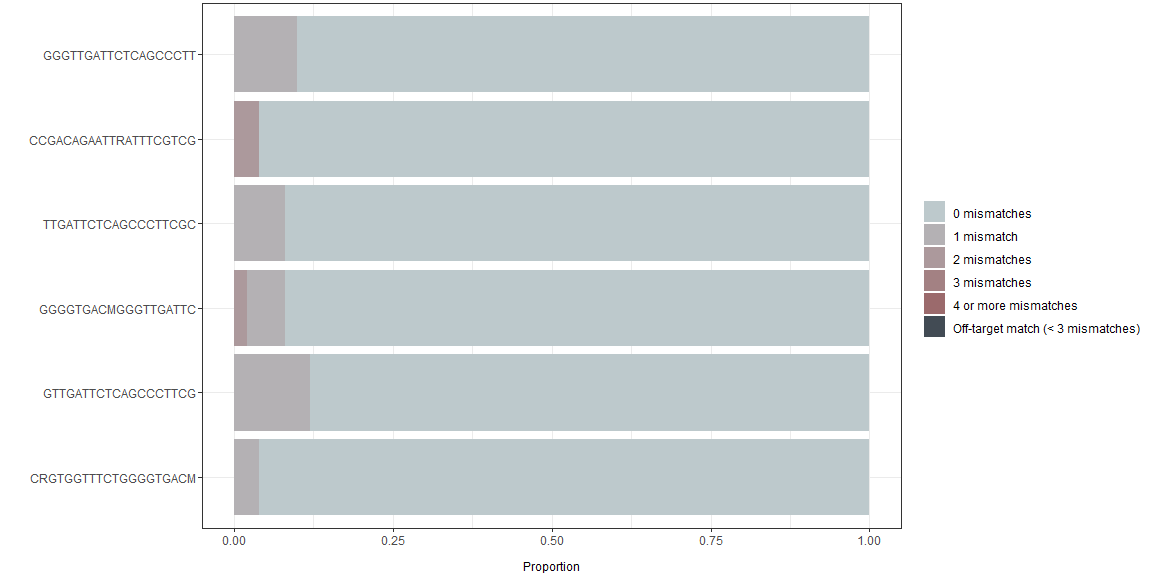
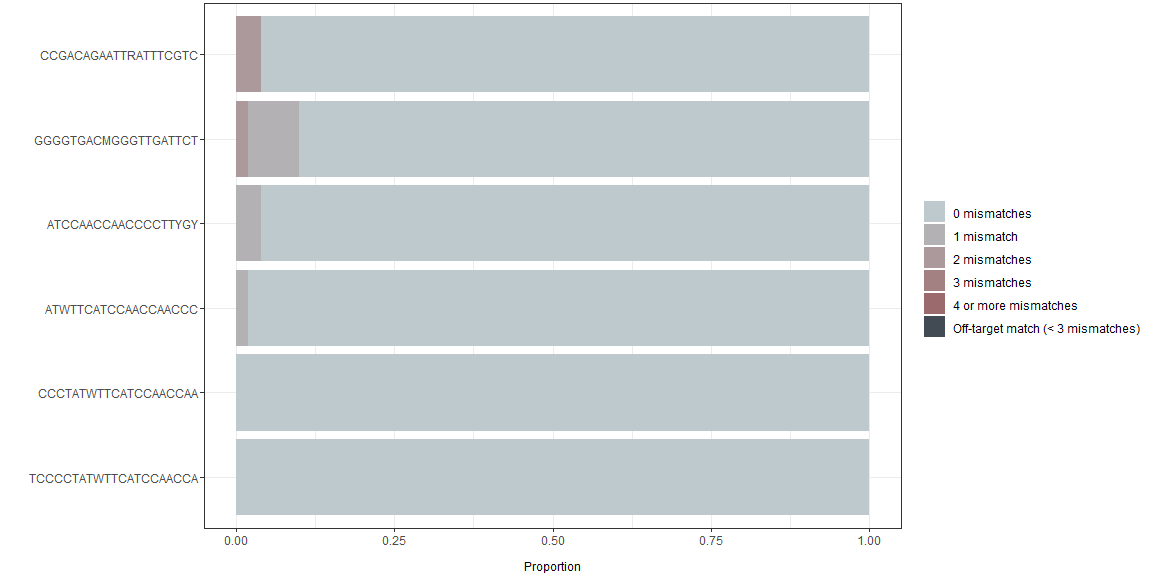
Updated installation info in readme

diff --git a/README.md b/README.md
@@ -17,9 +17,9 @@ for sequence variable viruses.
 To install rprimer, please use:
 
 ``` r
-if (!requireNamespace("BiocManager", quietly = TRUE))
-  install.packages("BiocManager")
-BiocManager::install("rprimer")
+if (!requireNamespace("devtools", quietly = TRUE))
+  install.packages("devtools")
+devtools::install_github("sofpn/rprimer")
 ```
 
 ``` r
@@ -48,8 +48,8 @@ interface). It is loaded by:
 ### Import alignment
 
 The first step is to import an alignment with target sequences of
-interest. This is done by using `readDNAMultipleAlignment()` from
-Biostrings.
+interest. This is done by using `readDNAMultipleAlignment()` from the
+Biostrings package.
 
 The file “example\_alignment.txt” contains an alignment of 50 hepatitis
 E virus sequences.
@@ -171,12 +171,12 @@ Results:
 
 | iupacSequence         | perfectMatch | idPerfectMatch | oneMismatch | idOneMismatch | twoMismatches | idTwoMismatches | threeMismatches | idThreeMismatches | fourOrMoreMismatches | idFourOrMoreMismatches | offTargetMatch | idOffTargetMatch |
 |:----------------------|-------------:|:---------------|------------:|:--------------|--------------:|:----------------|----------------:|:------------------|---------------------:|:-----------------------|---------------:|:-----------------|
-| GGGTTGATTCTCAGCCCTT   |         0.90 | AB073912….     |        0.10 | AB481228….    |          0.00 |                 |               0 |                   |                    0 |                        |              0 |                  |
-| CCGACAGAATTRATTTCGTCG |         0.96 | AB073912….     |        0.00 |               |          0.04 | MH410175….      |               0 |                   |                    0 |                        |              0 |                  |
-| TTGATTCTCAGCCCTTCGC   |         0.92 | AB073912….     |        0.08 | AB481228….    |          0.00 |                 |               0 |                   |                    0 |                        |              0 |                  |
-| GGGGTGACMGGGTTGATTC   |         0.92 | AB073912….     |        0.06 | BD378055….    |          0.02 | JQ953665.1      |               0 |                   |                    0 |                        |              0 |                  |
-| GTTGATTCTCAGCCCTTCG   |         0.88 | AB073912….     |        0.12 | AB481228….    |          0.00 |                 |               0 |                   |                    0 |                        |              0 |                  |
-| CRGTGGTTTCTGGGGTGACM  |         0.96 | AB073912….     |        0.04 | BD378055….    |          0.00 |                 |               0 |                   |                    0 |                        |              0 |                  |
+| CCGACAGAATTRATTTCGTC  |         0.96 | AB073912….     |        0.00 |               |          0.04 | MH410175….      |               0 |                   |                    0 |                        |              0 |                  |
+| GGGGTGACMGGGTTGATTCT  |         0.90 | AB073912….     |        0.08 | BD378055….    |          0.02 | JQ953665.1      |               0 |                   |                    0 |                        |              0 |                  |
+| ATCCAACCAACCCCTTYGY   |         0.96 | AB073912….     |        0.04 | MF444040….    |          0.00 |                 |               0 |                   |                    0 |                        |              0 |                  |
+| ATWTTCATCCAACCAACCC   |         0.98 | AB073912….     |        0.02 | HM439284.1    |          0.00 |                 |               0 |                   |                    0 |                        |              0 |                  |
+| CCCTATWTTCATCCAACCAA  |         1.00 | AB073912….     |        0.00 |               |          0.00 |                 |               0 |                   |                    0 |                        |              0 |                  |
+| TCCCCTATWTTCATCCAACCA |         1.00 | AB073912….     |        0.00 |               |          0.00 |                 |               0 |                   |                    0 |                        |              0 |                  |
 
 The match table can be visualized using `plotData()`:
 
